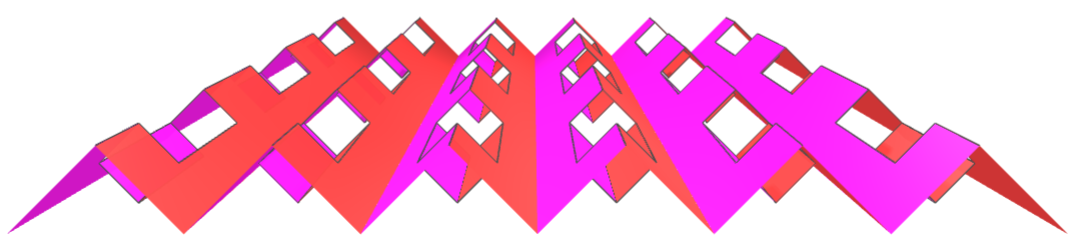
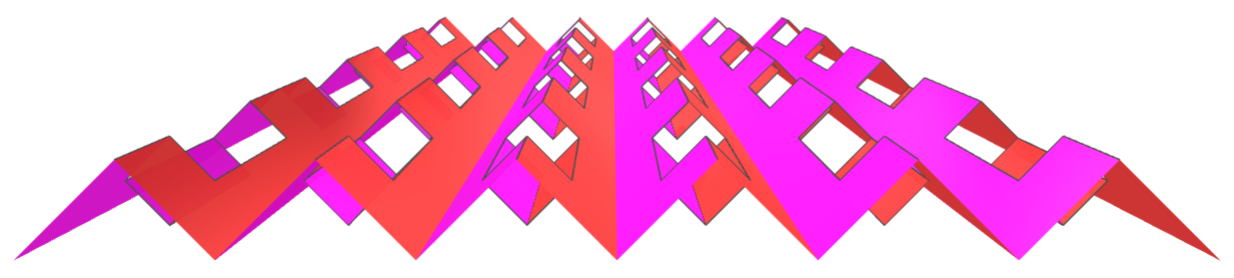
update

diff --git a/parte1/vr/modelo8b.htm b/parte1/vr/modelo8b.htm
@@ -27,7 +27,7 @@
 			<a-mixin id="anima4" animation__1="property: position; to: 1.41421356 0 0; dur: 24000; easing: easeInOutCirc; delay: 6750">
 			<a-mixin id="anima5" animation__1="property: position; to: 2.8284271 0 0; dur: 24000; easing: easeInOutCirc; delay: 6750">
 			<a-mixin id="anima6" animation__1="property: position; from: -4.5 5 -2.5; to: 4.5 5 -2.5; dur: 30000; easing: easeInOutCirc; delay: 0; loop: true; dir: alternate;">
-			<a-mixin id="anima7" animation__1="property: position; from: 4.5 5 -15; to: -4.5 5 -15; dur: 30000; easing: easeInOutCirc; delay: 0; loop: true; dir: alternate;">
+			<a-mixin id="anima7" animation__1="property: position; from: 4.5 5 -13; to: -4.5 5 -13; dur: 30000; easing: easeInOutCirc; delay: 0; loop: true; dir: alternate;">
 			<a-mixin id="luz" color="white" intensity="1" light="type: spot; angle: 45; penumbra: 0.5; castShadow:true; shadowBias: -0.01;">
 			<a-asset-item id="mt" src="obj/solidos.mtl"></a-asset-item>
 			<a-asset-item id="aq1" src="obj/m5.obj"></a-asset-item>
@@ -61,7 +61,7 @@
 			<a-entity teleport-controls="cameraRig: #cameraRig; collisionEntities: [mixin='piso']; teleportOrigin: #head; button: grip;" hand-controls="hand: right"></a-entity>
 		</a-entity>
 		
-		<a-plane rotation="-90 0 0" position="0 -1 -4" shadow color="black" scale="20 20 0"></a-plane>
+		<a-plane rotation="-90 0 0" position="0 -1 -4" shadow color="black" scale="20 25 0"></a-plane>
 		<a-entity rotation="-90 0 0" position="-3.5 -0.2 -4" scale="2 2 2">
 			<a-entity>
 				<a-entity id="f1" position="0 -1 0" mixin="anima1">

diff --git a/parte1/vr/flor2.htm b/parte1/vr/flor2.htm
@@ -26,8 +26,8 @@
 			<a-mixin id="anima3" animation__1="property: position; to: 0.7071068 0 0; dur: 24000; easing: easeInOutCirc; delay: 6750">
 			<a-mixin id="anima4" animation__1="property: position; to: 1.41421356 0 0; dur: 24000; easing: easeInOutCirc; delay: 6750">
 			<a-mixin id="anima5" animation__1="property: position; to: 2.8284271 0 0; dur: 24000; easing: easeInOutCirc; delay: 6750">
-			<a-mixin id="anima6" animation__1="property: position; from: -4.5 5 -1.5; to: 4.5 5 -1.5; dur: 60000; easing: easeInOutCirc; delay: 0; loop: true; dir: alternate;">
-			<a-mixin id="anima7" animation__1="property: position; from: 4.5 5 -4.5; to: -4.5 5 -4.5; dur: 60000; easing: easeInOutCirc; delay: 0; loop: true; dir: alternate;">
+			<a-mixin id="anima6" animation__1="property: position; from: -4.5 5 -1.5; to: 4.5 5 -1.5; dur: 30000; easing: easeInOutCirc; delay: 0; loop: true; dir: alternate;">
+			<a-mixin id="anima7" animation__1="property: position; from: 4.5 5 -4.5; to: -4.5 5 -4.5; dur: 30000; easing: easeInOutCirc; delay: 0; loop: true; dir: alternate;">
 			<a-mixin id="luz" color="white" intensity="1" light="type: spot; angle: 45; penumbra: 0.5; castShadow:true; shadowBias: -0.01;">
 			<a-asset-item id="mt" src="obj/solidos.mtl"></a-asset-item>
 			<a-asset-item id="aq1" src="obj/flor2.obj"></a-asset-item>

diff --git a/parte1/vr/modelo1.htm b/parte1/vr/modelo1.htm
@@ -19,8 +19,8 @@
 			<a-mixin id="anima3" animation__1="property: position; to: 0.707107 0 0; dur: 24000; easing: easeInOutCirc; delay: 6750">
 			<a-mixin id="anima4" animation__1="property: position; to: 1.414214 0 0; dur: 24000; easing: easeInOutCirc; delay: 6750">
 			<a-mixin id="anima5" animation__1="property: position; to: 2.828427 0 0; dur: 24000; easing: easeInOutCirc; delay: 6750">
-			<a-mixin id="anima6" animation__1="property: position; from: -4.5 5 -2.5; to: 4.5 5 -2.5; dur: 60000; easing: easeInOutCirc; delay: 0; loop: true; dir: alternate;">
-			<a-mixin id="anima7" animation__1="property: position; from: 4.5 5 -5.5; to: -4.5 5 -5.5; dur: 60000; easing: easeInOutCirc; delay: 0; loop: true; dir: alternate;">
+			<a-mixin id="anima6" animation__1="property: position; from: -4.5 5 -2.5; to: 4.5 5 -2.5; dur: 30000; easing: easeInOutCirc; delay: 0; loop: true; dir: alternate;">
+			<a-mixin id="anima7" animation__1="property: position; from: 4.5 5 -10; to: -4.5 5 -10; dur: 30000; easing: easeInOutCirc; delay: 0; loop: true; dir: alternate;">
 			<a-mixin id="luz" color="white" intensity="1" light="type: spot; angle: 45; penumbra: 0.5; castShadow:true; shadowBias: -0.01;">
 			<a-asset-item id="mt" src="obj/solidos.mtl"></a-asset-item>
 			<a-asset-item id="aq1" src="obj/m1.obj"></a-asset-item>

diff --git a/parte1/vr/modelo3.htm b/parte1/vr/modelo3.htm
@@ -19,8 +19,8 @@
 			<a-mixin id="anima3" animation__1="property: position; to: 0.707107 0 0; dur: 25000; easing: easeInOutCirc; delay: 5000">
 			<a-mixin id="anima4" animation__1="property: position; to: 1.414214 0 0; dur: 24000; easing: easeInOutCirc; delay: 6750">
 			<a-mixin id="anima5" animation__1="property: position; to: 2.828427 0 0; dur: 24000; easing: easeInOutCirc; delay: 6750">
-			<a-mixin id="anima6" animation__1="property: position; from: -4.5 5 -2.5; to: 4.5 5 -2.5; dur: 60000; easing: easeInOutCirc; delay: 0; loop: true; dir: alternate;">
-			<a-mixin id="anima7" animation__1="property: position; from: 4.5 5 -5.5; to: -4.5 5 -5.5; dur: 60000; easing: easeInOutCirc; delay: 0; loop: true; dir: alternate;">
+			<a-mixin id="anima6" animation__1="property: position; from: -4.5 5 -2.5; to: 4.5 5 -2.5; dur: 30000; easing: easeInOutCirc; delay: 0; loop: true; dir: alternate;">
+			<a-mixin id="anima7" animation__1="property: position; from: 4.5 5 -15; to: -4.5 5 -15; dur: 30000; easing: easeInOutCirc; delay: 0; loop: true; dir: alternate;">
 			<a-mixin id="luz" color="white" intensity="1" light="type: spot; angle: 45; penumbra: 0.5; castShadow:true; shadowBias: -0.01;">
 			<a-asset-item id="mt" src="obj/solidos.mtl"></a-asset-item>
 			<a-asset-item id="aq1" src="obj/m3.obj"></a-asset-item>

diff --git a/parte1/vr/modelo4.htm b/parte1/vr/modelo4.htm
@@ -27,7 +27,7 @@
 			<a-mixin id="anima4" animation__1="property: position; to: 1.41421356 0 0; dur: 24000; easing: easeInOutCirc; delay: 6750">
 			<a-mixin id="anima5" animation__1="property: position; to: 2.8284271 0 0; dur: 24000; easing: easeInOutCirc; delay: 6750">
 			<a-mixin id="anima6" animation__1="property: position; from: -4.5 5 -2.5; to: 4.5 5 -2.5; dur: 30000; easing: easeInOutCirc; delay: 0; loop: true; dir: alternate;">
-			<a-mixin id="anima7" animation__1="property: position; from: 4.5 5 -13; to: -4.5 5 -13; dur: 30000; easing: easeInOutCirc; delay: 0; loop: true; dir: alternate;">
+			<a-mixin id="anima7" animation__1="property: position; from: 4.5 5 -10; to: -4.5 5 -10; dur: 30000; easing: easeInOutCirc; delay: 0; loop: true; dir: alternate;">
 			<a-mixin id="luz" color="white" intensity="1" light="type: spot; angle: 45; penumbra: 0.5; castShadow:true; shadowBias: -0.01;">
 			<a-asset-item id="mt" src="obj/solidos.mtl"></a-asset-item>
 			<a-asset-item id="aq1" src="obj/m4.obj"></a-asset-item>

diff --git a/parte1/vr/modelo5.htm b/parte1/vr/modelo5.htm
@@ -27,7 +27,7 @@
 			<a-mixin id="anima4" animation__1="property: position; to: 1.41421356 0 0; dur: 24000; easing: easeInOutCirc; delay: 6750">
 			<a-mixin id="anima5" animation__1="property: position; to: 2.8284271 0 0; dur: 24000; easing: easeInOutCirc; delay: 6750">
 			<a-mixin id="anima6" animation__1="property: position; from: -4.5 5 -2.5; to: 4.5 5 -2.5; dur: 30000; easing: easeInOutCirc; delay: 0; loop: true; dir: alternate;">
-			<a-mixin id="anima7" animation__1="property: position; from: 4.5 5 -15; to: -4.5 5 -15; dur: 30000; easing: easeInOutCirc; delay: 0; loop: true; dir: alternate;">
+			<a-mixin id="anima7" animation__1="property: position; from: 4.5 5 -13; to: -4.5 5 -13; dur: 30000; easing: easeInOutCirc; delay: 0; loop: true; dir: alternate;">
 			<a-mixin id="luz" color="white" intensity="1" light="type: spot; angle: 45; penumbra: 0.5; castShadow:true; shadowBias: -0.01;">
 			<a-asset-item id="mt" src="obj/solidos.mtl"></a-asset-item>
 			<a-asset-item id="aq1" src="obj/m5.obj"></a-asset-item>

diff --git a/parte1/vr/modelo7.htm b/parte1/vr/modelo7.htm
@@ -27,7 +27,7 @@
 			<a-mixin id="anima4" animation__1="property: position; to: 1.41421356 0 0; dur: 24000; easing: easeInOutCirc; delay: 6750">
 			<a-mixin id="anima5" animation__1="property: position; to: 2.8284271 0 0; dur: 24000; easing: easeInOutCirc; delay: 6750">
 			<a-mixin id="anima6" animation__1="property: position; from: -4.5 5 -2.5; to: 4.5 5 -2.5; dur: 30000; easing: easeInOutCirc; delay: 0; loop: true; dir: alternate;">
-			<a-mixin id="anima7" animation__1="property: position; from: 4.5 5 -13; to: -4.5 5 -13; dur: 30000; easing: easeInOutCirc; delay: 0; loop: true; dir: alternate;">
+			<a-mixin id="anima7" animation__1="property: position; from: 4.5 5 -10; to: -4.5 5 -10; dur: 30000; easing: easeInOutCirc; delay: 0; loop: true; dir: alternate;">
 			<a-mixin id="luz" color="white" intensity="1" light="type: spot; angle: 45; penumbra: 0.5; castShadow:true; shadowBias: -0.01;">
 			<a-asset-item id="mt" src="obj/solidos.mtl"></a-asset-item>
 			<a-asset-item id="aq1" src="obj/m4.obj"></a-asset-item>

diff --git a/parte1/vr/modelo9.htm b/parte1/vr/modelo9.htm
@@ -61,7 +61,7 @@
 			<a-entity teleport-controls="cameraRig: #cameraRig; collisionEntities: [mixin='piso']; teleportOrigin: #head; button: grip;" hand-controls="hand: right"></a-entity>
 		</a-entity>
 		
-		<a-plane rotation="-90 0 0" position="0 -1 -4" shadow color="black" scale="20 15 0"></a-plane>
+		<a-plane rotation="-90 0 0" position="0 -1 -4" shadow color="black" scale="20 28 0"></a-plane>
 		<a-entity rotation="-90 0 0" position="-3.5 -0.2 -4" scale="2 2 2">
 			<a-entity>
 				<a-entity id="f1" position="0 -1 0" mixin="anima1">
